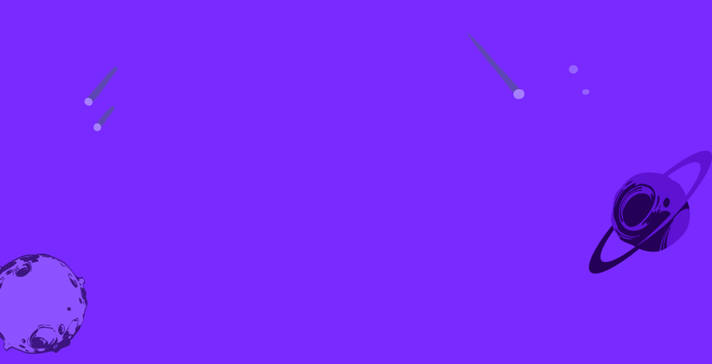
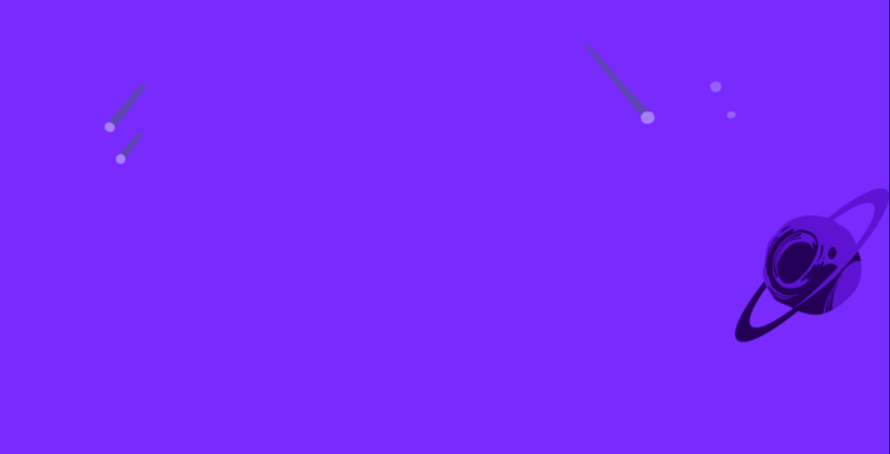
lesson 6

diff --git a/style.css b/style.css
@@ -235,27 +235,96 @@ Section{
 
 
 
-.skils-card {
+.skills-card{
     background-image: url(form3.png);
     background-repeat: no-repeat;
-    background-size: center;
+    background-size: contain;
     height: 450px;
     display: flex;
     flex-direction: column;
     align-items: center;
     margin-top: 100px;
-    margin: 20px; 
-    padding-left: 10px; 
+    margin: 20px;
+    padding-left: 10px;
 }
 
 
 .skills-card p{
-    color:#000;
+    color: #000;
     font-size: 18px;
     margin-top: 80px;
-    margin-bottom: 30px; 
-    display: flex;
+    margin-bottom: 30px;
     text-align: center;
-    max-width: 80px;
+    max-width: 500px;
     font-family: 'Comfortaa';
+}
+
+
+.moving-planet2{
+    background: url(moving-planet2.png);
+    background-repeat: no-repeat;
+    width: 208px;
+    height: 200px;
+    position: absolute;
+    bottom: 70px;
+    left: 0;
+    animation-name:planet-move ;
+    animation-duration: 2s;
+    animation-iteration-count: infinite;
+    animation-direction: alternate;
+}
+
+.works-block img{
+    margin: 0 20px;
+    width: 27%;
+    box-shadow: 
+      7px 7px 0 #000000;
+}
+
+.comments-block{
+    justify-content: space-evenly;
+    max-width: 1150px;
+    margin: auto;
+}
+
+.comment-card{
+    background-image: url(card.png);
+    background-repeat: no-repeat;
+    background-position: center;
+    background-size: contain;
+    height: 300px; 
+    display: flex;
+    flex-direction: column;
+    justify-content: center;
+    align-items: center;
+    max-width: 200px;
+}
+
+.comment-card h3{
+    font-size: 18p;
+    font-family: 'Comfortaa';
+    padding: 10px;
+}
+
+.comment-card p{
+    font-family: 'Comfortaa';
+    font-size: 14px;
+    padding:10px 20px;
+    text-align: center;
+}
+
+.comment{
+    background-image:url(comment.png) ;
+    background-size:contain ;
+    background-repeat: no-repeat;
+    background-position: left;
+    width: 327px;
+    height: 961px;
+    margin: auto;
+}
+
+.comment p{
+    font-family: 'Comfortaa';
+    font-size: 20px;
+    max-width: 250px;
 }

diff --git a/index.html b/index.html
@@ -56,26 +56,52 @@
 <section id="skills">
   <h1 class=" title">НАВЫКИ</h1>
   <div class="skills-block">
-    <p>
-      ЭТОТ САЙТ Я СДЕЛАЛА
-      В РАМКАХ ОБУЧЕНИЯ ШКОЛЫ
-      ROCKET TECH SCHOOL
-    </p>
-    <div class=" languages">
-      <img src="html.png" width="70">
-      <img src="css.png" width="70">
-      <img class="js.png" width="70">
+    <div class="skills-card">
+      <p>
+        ЭТОТ САЙТ Я СДЕЛАЛА
+        В РАМКАХ ОБУЧЕНИЯ ШКОЛЫ
+        ROCKET TECH SCHOOL
+      </p>
+    
+      <div class=" languages">
+        <img src="html.png" width="70">
+        <img src="css.png" width="70">
+        <img src="js.png" width="70">
+      </div>
+      <div class="button">
+        <a href="#">Смотреть роботы</a>
+      </div>
     </div>
+    <div class="moving-planet2"></div>
   </div>
 </section>
       
 <section id="works">
+  <h1 class = "title">
+    Любимые аниме
+  </h1>
   <div class="works-block">
+    <img src="anime1.png">
+    <img src="anime2.png">
+    <img src="anime3.png">
   </div>
 </section>
       
 <section id="comments">
+  <h1 class="title">
+		ОТЗЫВЫ
+	</h1>
   <div class="comments-block">
+    <div class="comment-card">
+      <img src="photo1.png" width="100">
+      <h3>Владимир</h3>
+      <p>Основатель Rocket Тech School </p>
+      <div class=" comment">
+        <p>Эта девочка проходила обучение
+           веб разработке 4 месяца,
+           и уже создает сложные сайты! </p>
+      </div>
+    </div>
   </div>
 </section>
 
